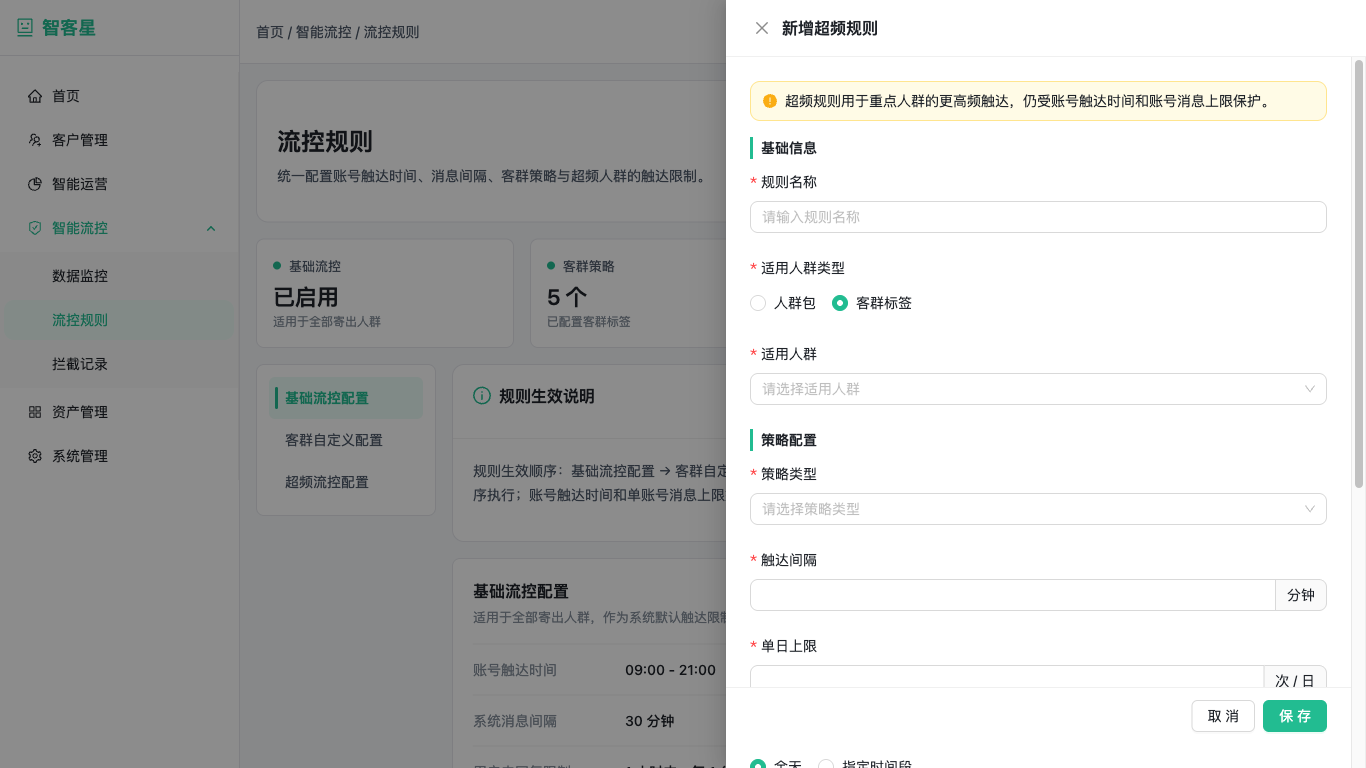
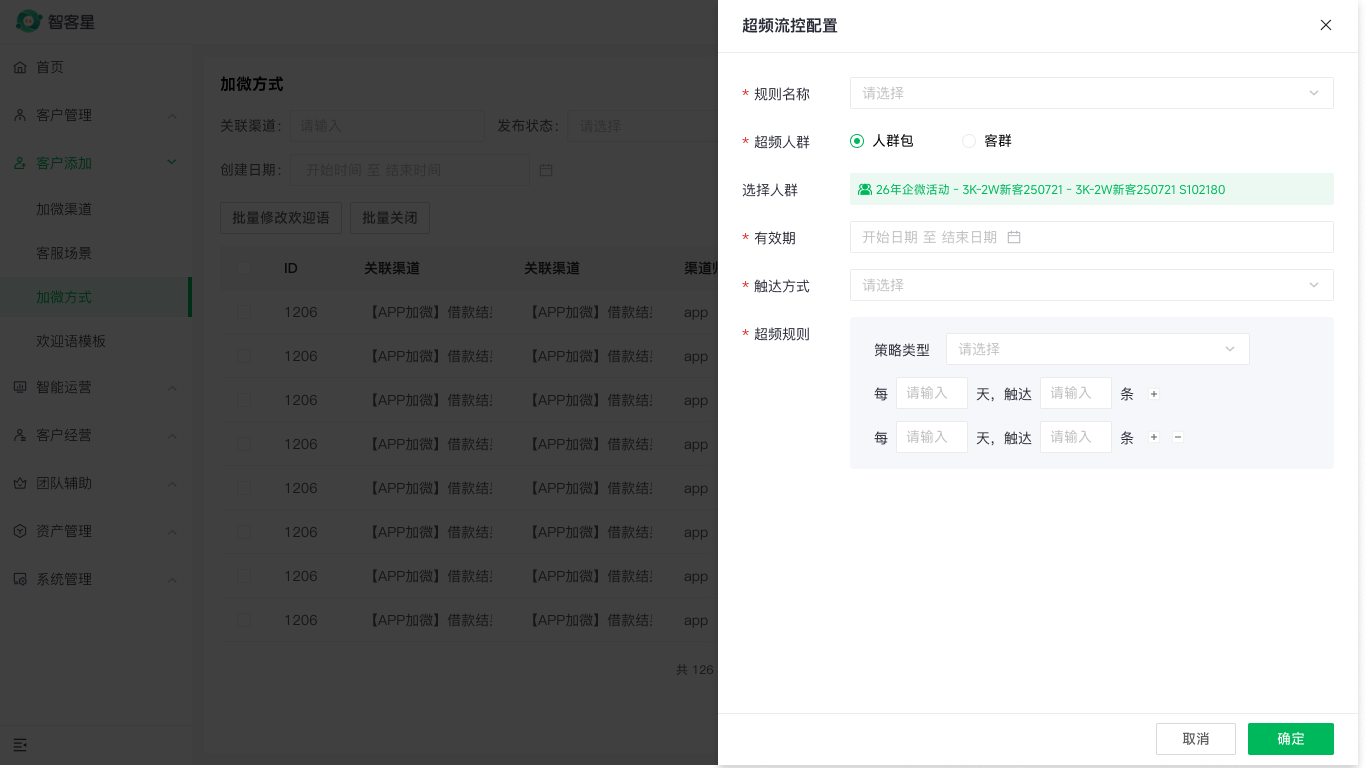
Replace Zhikexing drawer README screenshot

diff --git a/skills/qifu-drawer-form/README.md b/skills/qifu-drawer-form/README.md
@@ -16,7 +16,7 @@
 
 - 智客星“超频流控配置”：`1366 × 768` 打开态，包含智客星列表页底图、蒙层和右侧 `640px` 抽屉。
 - 已验证组合：规则名称、超频人群、选择人群、有效期、触达方式、超频规则灰底面板，以及“取消 / 确定”Footer。
-- 截图来自本机可交互页面的真实打开态，用于说明业务结构与视觉目标；正式 Figma 交付仍需按 Skill 的组件实例和结构化验收执行。
+- 截图来自 Figma Golden Sample `手搓精修一版` 的真实打开态，用于说明业务结构与视觉目标；正式 Figma 交付仍需按 Skill 的组件实例和结构化验收执行。
 
 ## 安装到个人 Skills
 
